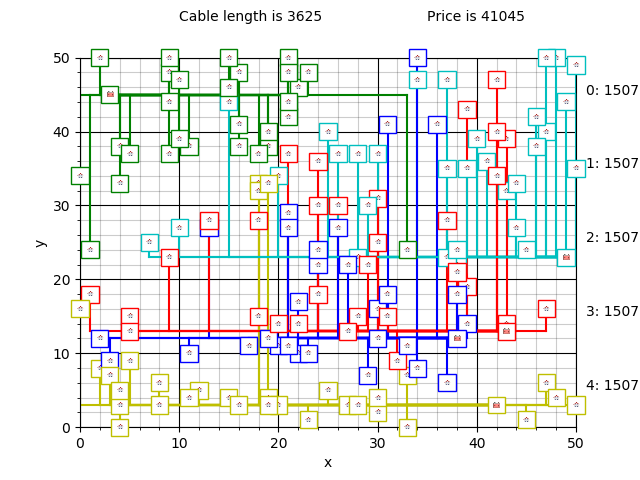
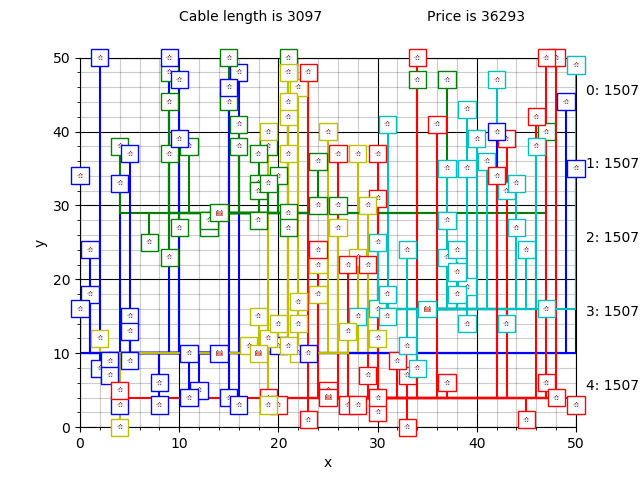
distance bijgewerkt

diff --git a/Algorithms/distance_algorithm.py b/Algorithms/distance_algorithm.py
@@ -6,6 +6,7 @@ import time
 
 def distance_algorithm(all_info):
 	# sort the batteries
+	all_info.show_batteries()
 	print ("Sorting...")
 	if (all_info.battery_sort == "random"):
 		all_info.batteries = random.sample(all_info.batteries, len(all_info.batteries))
@@ -29,7 +30,7 @@ def distance_algorithm(all_info):
 	# sort the lists from shortest distance to longest		
 	for i in range(0, len(all_info.batteries)):
 		dict_list["distance" + str(i) + "list"] = sorted(dict_list["distance" + str(i) + "list"], key=lambda x: x[0])
-		
+	
 	# save the indexes and how many houses are placed
 	index_list = [0] * len(all_info.batteries)
 	houses_to_place = len(all_info.houses)
@@ -56,8 +57,9 @@ def distance_algorithm(all_info):
 		
 		# check if it is posible to link more houses, if not break			
 		sum_index_list = 0
-		for i in range(0, len(all_info.batteries)-1):
+		for i in range(0, len(all_info.batteries)):
 			sum_index_list += index_list[i]
+		print(sum_index_list)
 		if (sum_index_list == len(all_info.houses) * len(all_info.batteries)):
 			all_info.solution = False
 			print(" UNSUCCESFULL ")
